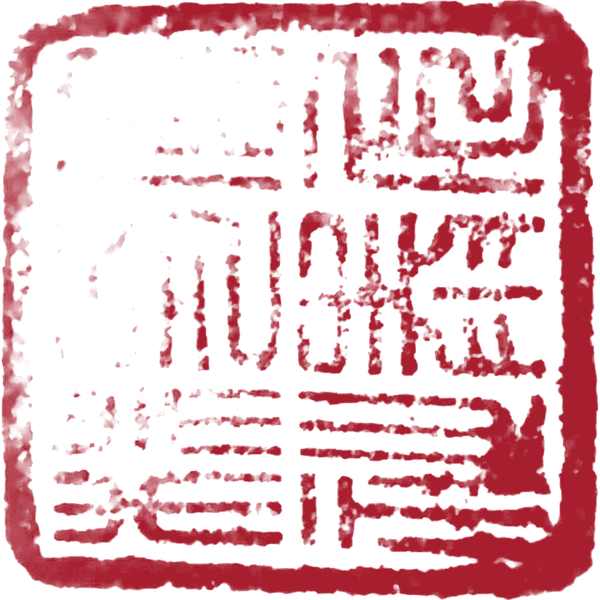
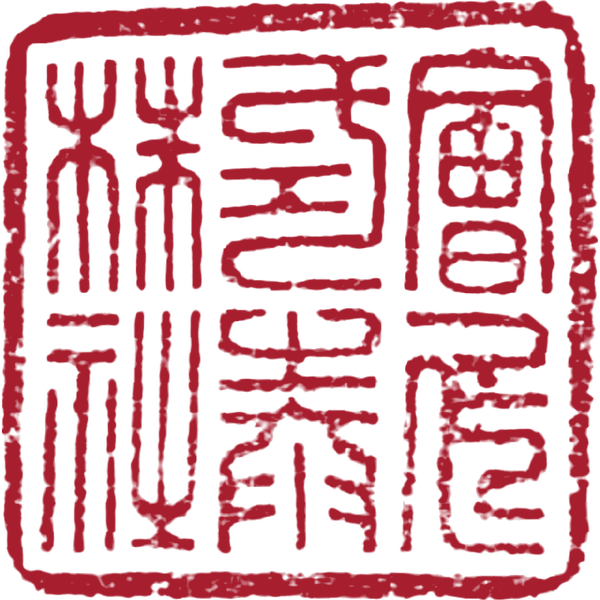
배포: [시스템] 재직증명서 직인 이미지 적용

diff --git a/deploy_and_restart.py b/deploy_and_restart.py
@@ -147,6 +147,7 @@ files = [
     # 여기(NAS staging 전송 목록)에 없으면 애초에 NAS 까지 가지 않는다.
     ("static/table-sort.js", "static/table-sort.js"),
     ("static/LOGO.GIF", "static/LOGO.GIF"),
+    ("static/cert_stamp.png", "static/cert_stamp.png"),   # 증명서 직인
     ("static/manifest.json", "static/manifest.json"),
     ("templates/attendance.html", "templates/attendance.html"),
     ("templates/weekly52.html", "templates/weekly52.html"),
